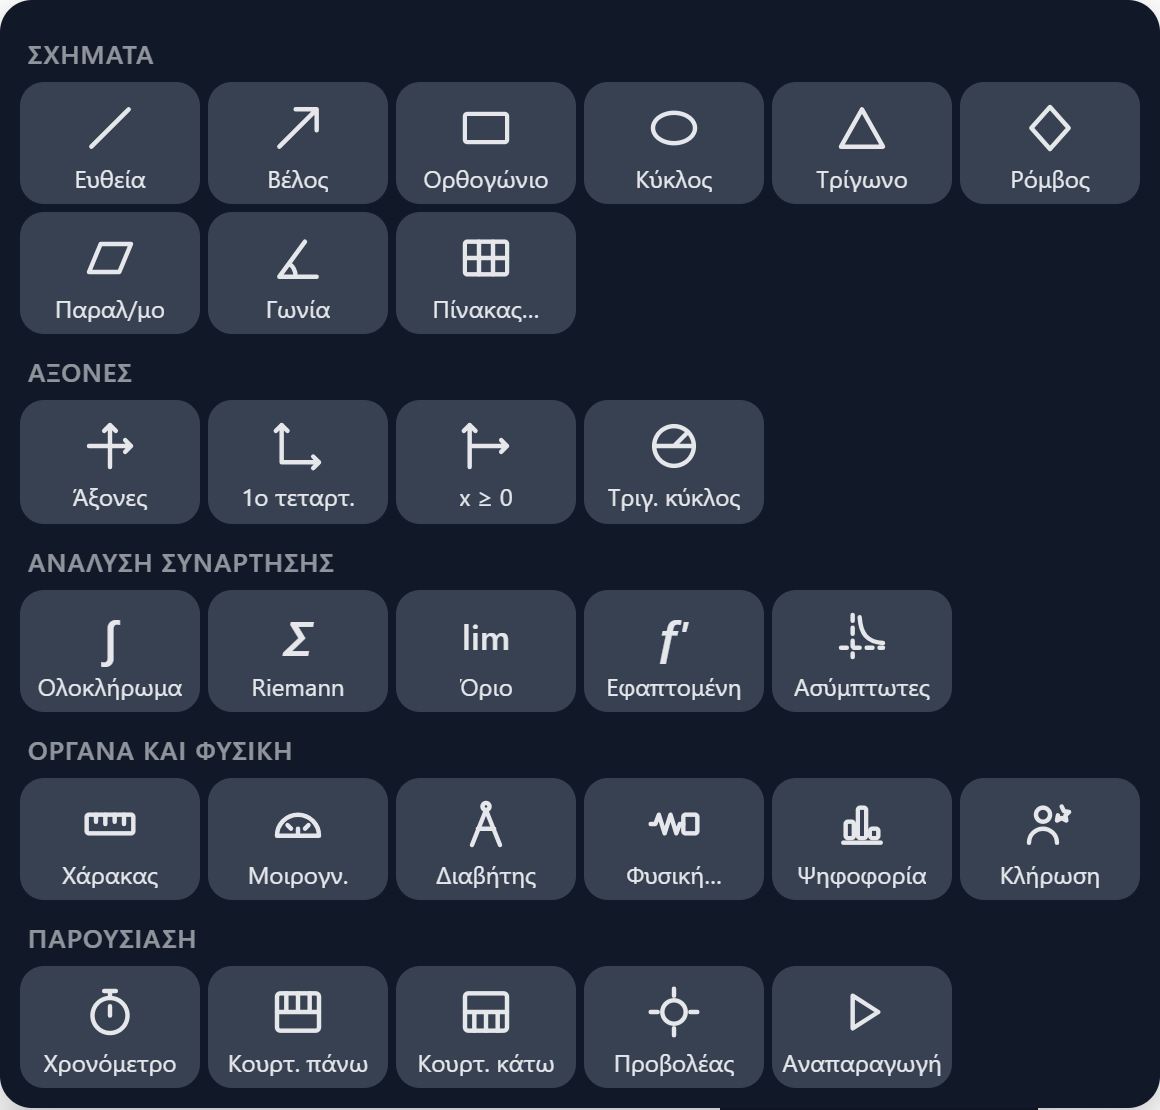
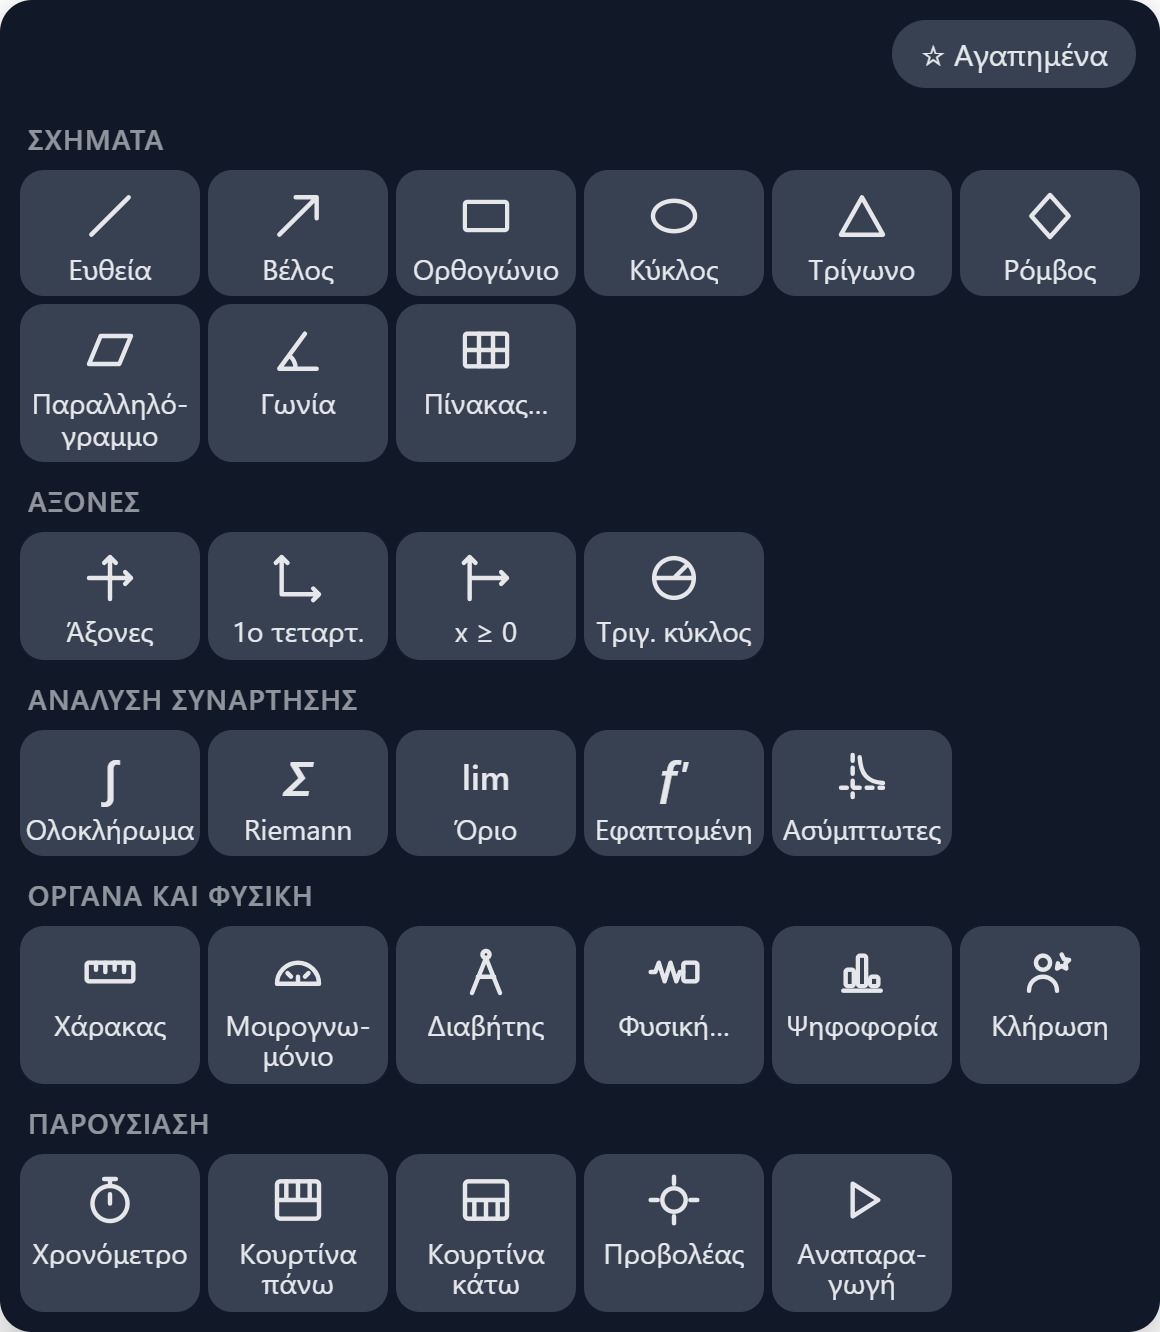
Αξιοπιστία και CI: Drive, IndexedDB, ζωγραφική, workflows
- Τα σβησμένα μαθήματα φεύγουν από τη λίστα «gone» όταν πάνε στον κάδο του Drive.
- «Φέρε όλα τα νεότερα»: οι τελευταίες γραμμές του ανοιχτού μαθήματος σώζονται πριν το ξαναφόρτωμα.
- Δύο ανεβάσματα μαζί δεν φτιάχνουν δεύτερο φάκελο «PrismaBoard».
- Μία σύνδεση με το IndexedDB για όλη την εφαρμογή.
- Δεν ζωγραφίζεται ό,τι είναι ολόκληρο έξω από την οθόνη· η αναίρεση κρατά ως 500 κινήσεις.
- Το esc στο app.ts (χωρίς κύκλο imports templates-ui → axes-ui).
- Κουμπιά γραμμής εργαλείων και zoom 44px· νέα screenshots στις οδηγίες.
- Workflows: actions κλειδωμένα σε SHA, δικαιώματα ανά job.

diff --git a/src/storage.ts b/src/storage.ts
@@ -14,13 +14,29 @@ export function cleanMeta(m: Partial<LessonMeta> | undefined): LessonMeta | null
 const DB = 'grafida';
 const STORE = 'kv';
 
+/** Μία σύνδεση για όλη την εφαρμογή· ξανανοίγει αν την κλείσει ο browser ή μια νεότερη έκδοση σε άλλη καρτέλα. */
+let conn: Promise<IDBDatabase> | null = null;
 function open(): Promise<IDBDatabase> {
-  return new Promise((res, rej) => {
+  conn ??= new Promise<IDBDatabase>((res, rej) => {
     const r = indexedDB.open(DB, 1);
     r.onupgradeneeded = () => r.result.createObjectStore(STORE);
-    r.onsuccess = () => res(r.result);
+    r.onsuccess = () => {
+      const db = r.result;
+      db.onversionchange = () => {
+        db.close();
+        conn = null;
+      };
+      db.onclose = () => {
+        conn = null;
+      };
+      res(db);
+    };
     r.onerror = () => rej(r.error);
+  }).catch((err) => {
+    conn = null;
+    throw err;
   });
+  return conn;
 }
 
 export async function saveDoc(doc: Doc): Promise<void> {
@@ -31,7 +47,6 @@ export async function saveDoc(doc: Doc): Promise<void> {
     tx.oncomplete = () => res();
     tx.onerror = () => rej(tx.error);
   });
-  db.close();
 }
 
 export async function loadDoc(): Promise<Doc | null> {
@@ -42,7 +57,6 @@ export async function loadDoc(): Promise<Doc | null> {
       r.onsuccess = () => res(r.result as string | undefined);
       r.onerror = () => rej(r.error);
     });
-    db.close();
     return s ? (JSON.parse(s) as Doc) : null;
   } catch {
     return null;
@@ -121,7 +135,6 @@ export async function saveLesson(id: string, doc: Doc): Promise<void> {
     tx.onerror = () => rej(tx.error);
     tx.onabort = () => rej(tx.error);
   });
-  db.close();
 }
 
 /**
@@ -158,7 +171,6 @@ export async function loadLesson(id: string, forEdit = false): Promise<Doc | nul
       tx.onerror = () => rej(tx.error);
       tx.onabort = () => rej(tx.error);
     });
-    db.close();
     return doc;
   } catch (err) {
     // για επεξεργασία το σφάλμα δεν γίνεται «δεν υπάρχει»: αλλιώς ανοίγει κενό και η πρώτη αποθήκευση το σβήνει
@@ -180,7 +192,6 @@ export async function deleteLesson(id: string): Promise<void> {
     tx.oncomplete = () => res();
     tx.onerror = () => rej(tx.error);
   });
-  db.close();
 }
 
 /** Γενική αποθήκευση τιμής (π.χ. πρότυπα σελίδων). */
@@ -192,7 +203,6 @@ export async function kvSet(key: string, value: unknown): Promise<void> {
     tx.oncomplete = () => res();
     tx.onerror = () => rej(tx.error);
   });
-  db.close();
 }
 
 export async function kvGet<T>(key: string): Promise<T | null> {
@@ -203,7 +213,6 @@ export async function kvGet<T>(key: string): Promise<T | null> {
       r.onsuccess = () => res(r.result as string | undefined);
       r.onerror = () => rej(r.error);
     });
-    db.close();
     return s ? (JSON.parse(s) as T) : null;
   } catch {
     return null;
@@ -218,7 +227,6 @@ export async function kvDel(key: string): Promise<void> {
     tx.oncomplete = () => res();
     tx.onerror = () => rej(tx.error);
   });
-  db.close();
 }
 
 /** Τιμή που δεν γίνεται JSON (π.χ. ο φάκελος που διάλεξε ο χρήστης για τα αρχεία): φυλάγεται ως έχει. */
@@ -230,7 +238,6 @@ export async function kvPutRaw(key: string, value: unknown): Promise<void> {
     tx.oncomplete = () => res();
     tx.onerror = () => rej(tx.error);
   });
-  db.close();
 }
 
 export async function kvGetRaw<T>(key: string): Promise<T | null> {
@@ -241,7 +248,6 @@ export async function kvGetRaw<T>(key: string): Promise<T | null> {
       r.onsuccess = () => res(r.result as T | undefined);
       r.onerror = () => rej(r.error);
     });
-    db.close();
     return v ?? null;
   } catch {
     return null;
@@ -257,7 +263,6 @@ export async function kvAll(): Promise<[string, string][]> {
     vals.onsuccess = () => res((keys.result as IDBValidKey[]).map((k, i) => [String(k), vals.result[i]] as [string, unknown]).filter((e): e is [string, string] => typeof e[1] === 'string'));
     vals.onerror = () => rej(vals.error);
   });
-  db.close();
   return out;
 }
 
@@ -272,5 +277,4 @@ export async function kvPutMany(entries: [string, string][]): Promise<void> {
     tx.onerror = () => rej(tx.error);
     tx.onabort = () => rej(tx.error);
   });
-  db.close();
 }

diff --git a/src/board.ts b/src/board.ts
@@ -388,6 +388,8 @@ export class Board {
 
   push(op: Op): void {
     this.undoStack.push(op);
+    // όριο για τη μνήμη σε μάθημα που μένει ανοιχτό όλη μέρα· οι πιο παλιές κινήσεις δεν αναιρούνται πια
+    if (this.undoStack.length > 500) this.undoStack.shift();
     this.redoStack = [];
     if (this.syncLinks()) this.redraw();
     this.onChange();
@@ -939,6 +941,13 @@ export class Board {
     const hidden = this.dragPreviewIds();
     const rp = this.replay;
     const items = this.page.items;
+    // ό,τι είναι ολόκληρο έξω από την οθόνη δεν ζωγραφίζεται· μόνο για είδη με ακριβές περίγραμμα (τα σχήματα έχουν και ετικέτες γύρω τους)
+    const pad = 40 / v.k;
+    const off = (it: Item): boolean => {
+      if (it.kind !== 'stroke' && it.kind !== 'image' && it.kind !== 'stamp' && it.kind !== 'text') return false;
+      const b = itemBounds(it);
+      return b.x1 < x0 - pad || b.x0 > x1 + pad || b.y1 < y0 - pad || b.y0 > y1 + pad;
+    };
     for (let i = 0; i < items.length; i++) {
       const it = items[i];
       if (hidden.has(it.id)) continue;
@@ -947,6 +956,7 @@ export class Board {
         if (rp.prog > 0) this.r.drawStroke(c, { ...it, pts: it.pts.slice(0, rp.prog) });
         break;
       }
+      if (off(it)) continue;
       this.r.drawItem(c, it);
       if (it.kind === 'shape' && it.meas) this.r.drawMeasures(c, it);
     }

diff --git a/src/style.css b/src/style.css
@@ -63,7 +63,7 @@ body.inking #toolbar { pointer-events: none; }
 }
 .group { display: flex; align-items: center; gap: 2px; padding-right: 6px; border-right: 1px solid var(--bar-2); }
 .group:last-child { border-right: 0; padding-right: 0; }
-#toolbar button { width: 42px; height: 42px; border-radius: 10px; padding: 0; font-size: 0;
+#toolbar button { width: 44px; height: 44px; border-radius: 10px; padding: 0; font-size: 0;
   display: flex; align-items: center; justify-content: center; }
 #toolbar button span { font-size: 21px; line-height: 1; }
 #toolbar button span svg { display: block; width: 26px; height: 26px; }
@@ -366,7 +366,7 @@ body.inking #lessonName { pointer-events: none; }
 /* ---------- zoom ---------- */
 #zoomCtl { position: fixed; right: 14px; top: 14px; z-index: 10; display: flex; align-items: center; gap: 2px; padding: 4px; border-radius: 14px;
   background: var(--bar); color: var(--fg); box-shadow: 0 4px 16px rgba(0,0,0,.28); opacity: .85; transition: opacity .15s; }
-#zoomCtl button { width: 42px; height: 42px; border-radius: 10px; display: flex; align-items: center; justify-content: center; }
+#zoomCtl button { width: 44px; height: 44px; border-radius: 10px; display: flex; align-items: center; justify-content: center; }
 #zoomCtl button svg { width: 22px; height: 22px; }
 #zoomCtl #zoomFit { width: 58px; font-size: 14px; font-weight: 600; }
 #zoomCtl button:hover { background: var(--bar-2); }

diff --git a/src/drive.ts b/src/drive.ts
@@ -123,7 +123,19 @@ async function api<T>(url: string, init: RequestInit, tk: string): Promise<T> {
 /** Το όνομα μέσα σε ερώτημα του Drive: τα ' και \ θέλουν διαφυγή. */
 const quoted = (s: string): string => s.replace(/['\\]/g, (c) => `\\${c}`);
 
-async function folderId(tk: string, name = FOLDER, parent?: string): Promise<string> {
+/** Αναζητήσεις φακέλων που τρέχουν τώρα: δύο ανεβάσματα μαζί περιμένουν την ίδια, αντί να φτιάξει το καθένα δικό του φάκελο. */
+const finding = new Map<string, Promise<string>>();
+function folderId(tk: string, name = FOLDER, parent?: string): Promise<string> {
+  const key = `${parent ?? ''}/${name}`;
+  let p = finding.get(key);
+  if (!p) {
+    p = findOrMakeFolder(tk, name, parent).finally(() => finding.delete(key));
+    finding.set(key, p);
+  }
+  return p;
+}
+
+async function findOrMakeFolder(tk: string, name: string, parent?: string): Promise<string> {
   const q = `name='${quoted(name)}' and mimeType='application/vnd.google-apps.folder' and trashed=false${parent ? ` and '${parent}' in parents` : ''}`;
   const found = await api<{ files: { id: string }[] }>(`https://www.googleapis.com/drive/v3/files?q=${encodeURIComponent(q)}&fields=files(id)`, {}, tk);
   if (found.files[0]) return found.files[0].id;

diff --git a/src/axes-ui.ts b/src/axes-ui.ts
@@ -5,7 +5,7 @@ import { Params, compile, fnOf, paramsOf } from './expr';
 import { crossings, enclosing, fitScaleY } from './analysis';
 import { axesRange, itemBounds } from './model';
 import { ask } from './dialog';
-import { $, board, toast } from './app';
+import { $, board, esc, toast } from './app';
 // κυκλική αναφορά με το main: μόνο συναρτήσεις, που καλούνται αφού στηθεί όλη η εφαρμογή
 import { closePopups, inkPalette, placeNear, savePrefs, togglePopup } from './main';
 
@@ -145,7 +145,6 @@ const FN_KEYS = [
 ];
 const FN_INSERT: Record<string, string> = { 'x²': '²', '÷': '/', '×': '·', '−': '-' };
 $('fnKeys').innerHTML = FN_KEYS.map((k) => `<button data-key="${k}"${/^[0-9,]$/.test(k) ? ' class="num"' : ''}>${k}</button>`).join('');
-export const esc = (t: string): string => t.replace(/[&<>"]/g, (ch) => ({ '&': '&amp;', '<': '&lt;', '>': '&gt;', '"': '&quot;' })[ch]!);
 /** Ποια συνάρτηση της λίστας διορθώνεται (null = γράφεται καινούργια). */
 let fnEdit: number | null = null;
 /** Ο χρήστης έσυρε το πλαίσιο: δεν το ξανατοποθετούμε μόνοι μας. */

diff --git a/src/lessons.ts b/src/lessons.ts
@@ -632,10 +632,12 @@ export class Lessons {
         });
         done++;
       }
+      // ό,τι πήγε στον κάδο του Drive (ή δεν ήταν εκεί) φεύγει από τη λίστα· όσα απέτυχαν ξαναδοκιμάζονται την επόμενη φορά
       for (const id of gone.slice()) {
         const r = remote.find((x) => x.id === id);
-        if (r) await trashBackup(r.fileId).catch(() => undefined);
+        if (r && !(await trashBackup(r.fileId).then(() => true, () => false))) continue;
         delete this.safe.ids[id];
+        this.safe.gone = this.safe.gone.filter((g) => g !== id);
       }
       this.safe.at = Date.now();
       this.safe.done = true;
@@ -695,6 +697,8 @@ export class Lessons {
   private async put(raw: LessonMeta, doc: Doc): Promise<'new' | 'upd' | null> {
     const meta = cleanMeta(raw);
     if (!meta) return null;
+    // ό,τι γράφτηκε στο ανοιχτό μάθημα τα τελευταία δευτερόλεπτα σώζεται πριν τη σύγκριση και το ξαναφόρτωμα
+    if (meta.id === this.cur) await this.flush(false);
     try {
       doc = readDoc(doc);
     } catch {

diff --git a/src/app.ts b/src/app.ts
@@ -110,6 +110,9 @@ export function download(blob: Blob, name: string): void {
   setTimeout(() => URL.revokeObjectURL(a.href), 5000);
 }
 
+/** Κείμενο που μπαίνει σε HTML. */
+export const esc = (t: string): string => t.replace(/[&<>"]/g, (ch) => ({ '&': '&amp;', '<': '&lt;', '>': '&gt;', '"': '&quot;' })[ch]!);
+
 /** Όνομα κατάλληλο για αρχείο. */
 export function fileName(s: string): string {
   return s.replace(/[\\/:*?"<>|]/g, '_').trim() || 'pinakas';

diff --git a/src/templates-ui.ts b/src/templates-ui.ts
@@ -4,8 +4,7 @@ import { Item } from './model';
 import { kvGet, kvSet } from './storage';
 import { ask } from './dialog';
 import { BUILTIN, type Template } from './pages';
-import { $, board, toast } from './app';
-import { esc } from './axes-ui';
+import { $, board, esc, toast } from './app';
 import { closePopups } from './main';
 
 let templates: Template[] = [];
